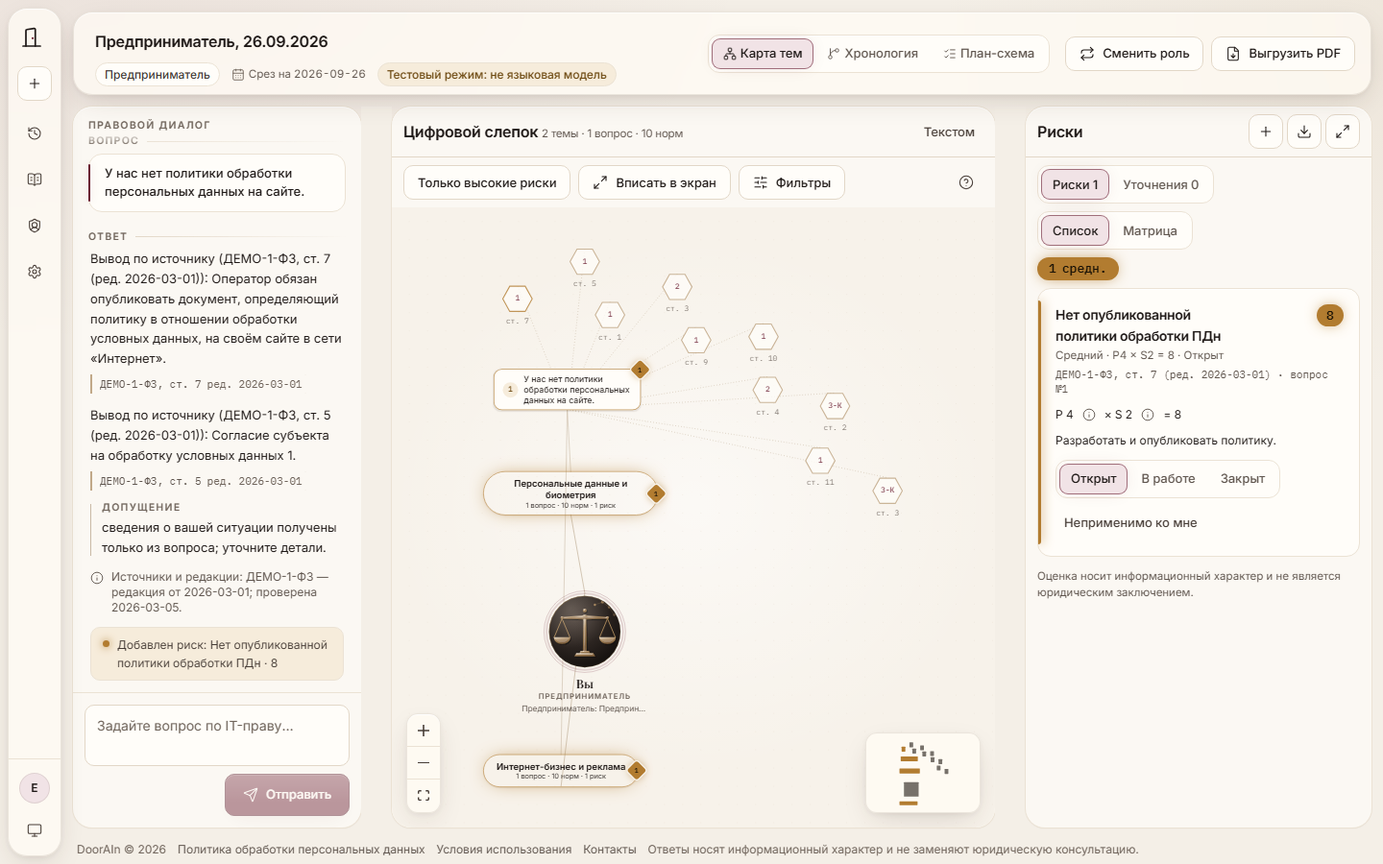
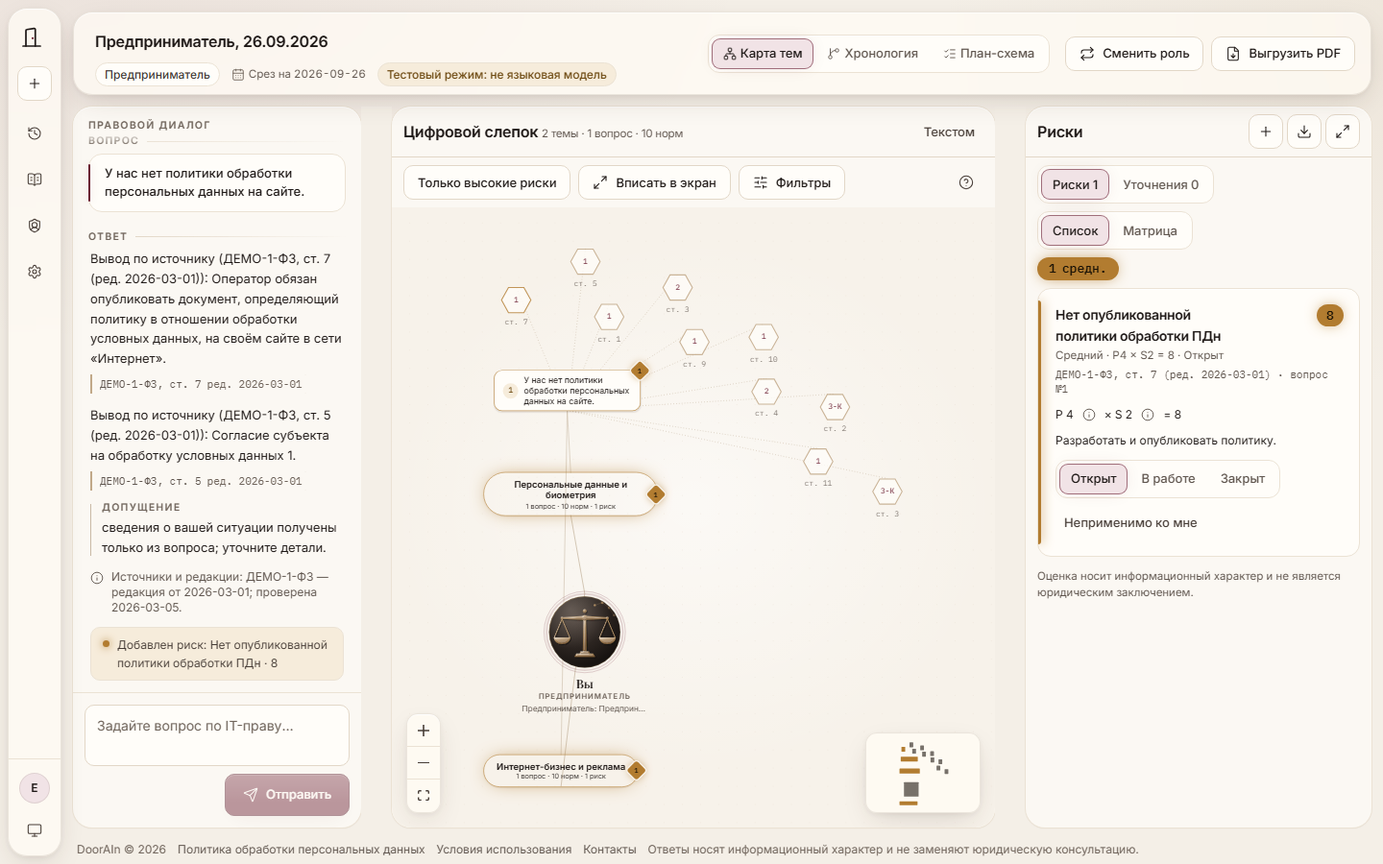
Карта: узлы не перекрываются, весы «Вы» качаются при перемещении
- separate: раздвижка по видимым прямоугольникам (замеренный размер, масштаб капсулы темы), на каждой пересборке
  раскладки и для сохранённых позиций; перетащенный узел остаётся на месте, соседи отходят
- новый или изменившийся замер узла пересобирает раскладку; раздвинутые позиции сохраняются
- Medallion: коромысло и подвесы — группы с поворотом по CSS-переменным --beam/--pan
- узел «Вы»: затухающий маятник чаш и пружина коромысла (swingStep) в requestAnimationFrame, без перерисовки React;
  при prefers-reduced-motion весы неподвижны
- тесты: unit (раздвижка с масштабом, затухание качания), e2e (нет пересечений после загрузки и перетаскиваний, качание)

diff --git a/frontend/src/features/workspace/GraphView.tsx b/frontend/src/features/workspace/GraphView.tsx
@@ -23,7 +23,7 @@ import { LEVEL_ORDER, LEVEL_RU, ROLE_RU } from '../../lib/risk'
 import { nodesForRisk, riskIdsForNode, useSelection } from '../../lib/selection'
 import { cssVar } from '../../lib/theme'
 import { download, NODE_TITLE, svgToPng, toSvg } from './graphExport'
-import { branchOf, countersText, dialogThread, lodFor, questionNumbers, radialLayout, short, topicCounters, visibleAt, type Positions } from './graphModel'
+import { BOX, branchOf, countersText, dialogThread, growth, lodFor, questionNumbers, radialLayout, separate, short, topicCounters, visibleAt, type Positions, type SizeOf } from './graphModel'
 import { nodeTypes, type PData } from './GraphNodes'
 import { ReasoningDrawer } from './ReasoningDrawer'
 
@@ -118,6 +118,7 @@ function Inner({ sessionId, graph }: { sessionId: string; graph: Graph }) {
   // Замеры узлов: React Flow сбрасывает размеры у каждого нового объекта узла без measured и прячет его (visibility: hidden)
   // до повторного замера — курсор «проваливается» на фон, приходит mouseleave, и карта мерцает при неподвижном курсоре.
   const sizes = useRef(new Map<string, { width: number; height: number }>())
+  const pinned = useRef(new Set<string>()) // последние перетащенные узлы: раздвижка их не сдвигает
   const hoverId = useRef<string | null>(null)
   const hoverOut = useRef<number | undefined>(undefined)
   const timer = useRef<number | undefined>(undefined)
@@ -156,7 +157,17 @@ function Inner({ sessionId, graph }: { sessionId: string; graph: Graph }) {
   }, [graph, filters, nums])
 
   const visible = useMemo(() => graph.nodes.filter((n) => !hidden.has(n.id)).sort((a, b) => KIND_ORDER[a.kind] - KIND_ORDER[b.kind] || (nums.get(a.id) ?? 0) - (nums.get(b.id) ?? 0)), [graph.nodes, hidden, nums])
-  const layout = useMemo(() => radialLayout(graph, visible, positions.current), [graph, visible, moved]) // eslint-disable-line react-hooks/exhaustive-deps -- позиции лежат в ref: moved пересчитывает раскладку после перетаскивания и «Разложить заново»
+  // Узлы не залезают друг на друга: после раскладки все видимые узлы раздвигаются по замеренным размерам (капсула темы —
+  // с учётом масштаба), включая сохранённые позиции; не двигается только то, что пользователь только что перетащил.
+  const layout = useMemo(() => {
+    const size: SizeOf = (n) => {
+      const m = sizes.current.get(n.id), k = n.kind === 'topic' ? growth(n.weight) : 1
+      return m ? { w: m.width, h: m.height, k } : { ...BOX[n.kind], k }
+    }
+    const out = radialLayout(graph, visible, positions.current, size)
+    separate(visible, out, pinned.current, size)
+    return out
+  }, [graph, visible, moved]) // eslint-disable-line react-hooks/exhaustive-deps -- позиции и размеры лежат в ref: moved пересчитывает раскладку после замера, перетаскивания и «Разложить заново»
 
   const persist = useCallback((f: GraphFilters) => {
     window.clearTimeout(timer.current)
@@ -164,9 +175,9 @@ function Inner({ sessionId, graph }: { sessionId: string; graph: Graph }) {
   }, [sessionId])
   const setF = (f: GraphFilters) => { setFilters(f); persist(f) }
 
-  // Новые узлы получают позицию один раз и сохраняются: следующий ответ не перетряхивает слепок.
+  // Новые узлы получают позицию один раз и сохраняются (следующий ответ не перетряхивает слепок); раздвинутые — тоже.
   useEffect(() => {
-    const fresh = Object.keys(layout).filter((id) => !positions.current[id])
+    const fresh = Object.entries(layout).filter(([id, p]) => positions.current[id]?.x !== p.x || positions.current[id]?.y !== p.y)
     if (!fresh.length) return
     positions.current = { ...positions.current, ...layout }
     persist(filters)
@@ -247,11 +258,17 @@ function Inner({ sessionId, graph }: { sessionId: string; graph: Graph }) {
 
   const onNodesChange = useCallback((changes: NodeChange<Node<PData>>[]) => {
     let drag = false
+    const dragged = new Set<string>()
     for (const c of changes) {
-      // первый замер узла тоже пересобирает узлы: мини-карта рисует только узлы с measured в пользовательском объекте
-      if (c.type === 'dimensions' && c.dimensions) { drag ||= !sizes.current.has(c.id); sizes.current.set(c.id, c.dimensions) }
-      if (c.type === 'position' && c.position) { positions.current = { ...positions.current, [c.id]: c.position }; drag = true }
+      // новый или изменившийся замер пересобирает узлы: мини-карта рисует только узлы с measured, раздвижка берёт реальный размер
+      if (c.type === 'dimensions' && c.dimensions) {
+        const was = sizes.current.get(c.id)
+        drag ||= !was || Math.abs(was.width - c.dimensions.width) > 1 || Math.abs(was.height - c.dimensions.height) > 1
+        sizes.current.set(c.id, c.dimensions)
+      }
+      if (c.type === 'position' && c.position) { positions.current = { ...positions.current, [c.id]: c.position }; dragged.add(c.id); drag = true }
     }
+    if (dragged.size) pinned.current = dragged
     if (drag) force((x) => x + 1)
   }, [])
   useEffect(() => () => window.clearTimeout(hoverOut.current), [])
@@ -290,7 +307,7 @@ function Inner({ sessionId, graph }: { sessionId: string; graph: Graph }) {
     if (png) download(`doorain-portrait-${stamp}.png`, png)
   }, [graph, visible, layout])
 
-  const relayout = () => { positions.current = {}; force((x) => x + 1); persist(filters) }
+  const relayout = () => { positions.current = {}; pinned.current = new Set(); force((x) => x + 1); persist(filters) }
   const topics = graph.nodes.filter((n) => n.kind === 'topic')
   const topicTitle = topics.find((t) => t.id === filters.topic)?.label
   const onlyHigh = filters.minLevel === 'high'

diff --git a/frontend/src/features/workspace/graphModel.ts b/frontend/src/features/workspace/graphModel.ts
@@ -90,7 +90,7 @@ export const BOX: Record<GraphNode['kind'], { w: number; h: number }> = {
 
 /** Радиальная раскладка: центр в середине, темы по окружности, вопросы — дугой снаружи своей темы, нормы — ещё дальше.
  *  Уже размещённые узлы (keep) не двигаются: новые узлы не перетряхивают граф. */
-export function radialLayout(graph: Graph, visible: GraphNode[], keep: Positions): Positions {
+export function radialLayout(graph: Graph, visible: GraphNode[], keep: Positions, size?: SizeOf): Positions {
   const ids = new Set(visible.map((n) => n.id))
   const topics = visible.filter((n) => n.kind === 'topic')
   const T = Math.max(1, topics.length)
@@ -147,13 +147,19 @@ export function radialLayout(graph: Graph, visible: GraphNode[], keep: Positions
     const b = BOX[n.kind]
     out[n.id] = { x: Math.round(p.x - b.w / 2), y: Math.round(p.y - b.h / 2) }
   }
-  separate(visible, out, new Set(Object.keys(keep)))
+  separate(visible, out, new Set(Object.keys(keep)), size)
   return out
 }
 
-/** Раздвигает пересекающиеся прямоугольники узлов; закреплённые (уже размещённые) узлы не двигаются.
+/** Размер узла для раздвижки: w × h — рамка узла (от неё считается центр), k — видимый масштаб содержимого (капсула темы). */
+export type SizeOf = (n: GraphNode) => { w: number; h: number; k?: number }
+const boxOf: SizeOf = (n) => BOX[n.kind]
+
+/** Раздвигает пересекающиеся узлы по их видимым прямоугольникам (центр + масштаб); закреплённые узлы не двигаются.
+ *  Сдвиг — по оси наименьшего перекрытия, поровну между двумя свободными узлами.
  *  ponytail: O(n²) за проход, до 60 проходов — достаточно для слепка в сотни узлов; при тысячах нужен пространственный индекс. */
-export function separate(nodes: GraphNode[], pos: Positions, fixed: Set<string>, gap = 10): void {
+export function separate(nodes: GraphNode[], pos: Positions, fixed: Set<string>, size: SizeOf = boxOf, gap = 12): void {
+  const dim = nodes.map((n) => { const s = size(n), k = s.k ?? 1; return { w: s.w, h: s.h, hw: (s.w * k) / 2, hh: (s.h * k) / 2 } })
   for (let iter = 0; iter < 60; iter++) {
     let moved = false
     for (let i = 0; i < nodes.length; i++) {
@@ -161,18 +167,19 @@ export function separate(nodes: GraphNode[], pos: Positions, fixed: Set<string>,
         const a = nodes[i]!, b = nodes[j]!
         const pa = pos[a.id], pb = pos[b.id]
         if (!pa || !pb || (fixed.has(a.id) && fixed.has(b.id))) continue
-        const A = BOX[a.kind], B = BOX[b.kind]
-        const dx = Math.min(pa.x + A.w, pb.x + B.w) - Math.max(pa.x, pb.x) + gap
-        const dy = Math.min(pa.y + A.h, pb.y + B.h) - Math.max(pa.y, pb.y) + gap
+        const A = dim[i]!, B = dim[j]!
+        const ax = pa.x + A.w / 2, ay = pa.y + A.h / 2, bx = pb.x + B.w / 2, by = pb.y + B.h / 2
+        const dx = A.hw + B.hw + gap - Math.abs(ax - bx)
+        const dy = A.hh + B.hh + gap - Math.abs(ay - by)
         if (dx <= 0 || dy <= 0) continue
         moved = true
         const horizontal = dx < dy
-        const sign = horizontal ? Math.sign(pa.x + A.w / 2 - (pb.x + B.w / 2)) || 1 : Math.sign(pa.y + A.h / 2 - (pb.y + B.h / 2)) || 1
-        const shift = (horizontal ? dx : dy) / (fixed.has(a.id) || fixed.has(b.id) ? 1 : 2)
+        const sign = horizontal ? Math.sign(ax - bx) || 1 : Math.sign(ay - by) || 1
+        const shift = Math.ceil((horizontal ? dx : dy) / (fixed.has(a.id) || fixed.has(b.id) ? 1 : 2))
         const move = (id: string, s: number) => {
           if (fixed.has(id)) return
           const p = pos[id]!
-          pos[id] = horizontal ? { x: Math.round(p.x + s * shift), y: p.y } : { x: p.x, y: Math.round(p.y + s * shift) }
+          pos[id] = horizontal ? { x: p.x + s * shift, y: p.y } : { x: p.x, y: p.y + s * shift }
         }
         move(a.id, sign)
         move(b.id, -sign)
@@ -180,6 +187,20 @@ export function separate(nodes: GraphNode[], pos: Positions, fixed: Set<string>,
     }
     if (!moved) return
   }
+}
+
+/** Качание весов «Вы»: чаши — затухающий маятник (угол pan), коромысло — затухающая пружина (угол beam), в градусах.
+ *  push(dx) — толчок от перемещения узла на dx: чаши отстают от движения, коромысло отвечает меньше и в другую сторону. */
+export interface Swing { pan: number; panV: number; beam: number; beamV: number }
+export const swingPush = (s: Swing, dx: number): void => { s.panV += dx * 3; s.beamV -= dx }
+export function swingStep(s: Swing, dt: number): boolean {
+  s.panV += (-81 * s.pan - 2.4 * s.panV) * dt
+  s.pan += s.panV * dt
+  if (Math.abs(s.pan) > 32) { s.pan = Math.sign(s.pan) * 32; s.panV = 0 } // упор: скорость гасится, а не копится у предела
+  s.beamV += (-49 * s.beam - 3 * s.beamV) * dt
+  s.beam += s.beamV * dt
+  if (Math.abs(s.beam) > 10) { s.beam = Math.sign(s.beam) * 10; s.beamV = 0 }
+  return Math.abs(s.pan) + Math.abs(s.panV) + Math.abs(s.beam) + Math.abs(s.beamV) > 0.05 // ещё качается
 }
 
 /** Короткая подпись нормы для шестиугольника: номер акта сверху, статья снизу («152» / «ст. 22»). */

diff --git a/frontend/src/components/Medallion.tsx b/frontend/src/components/Medallion.tsx
@@ -9,6 +9,10 @@ const LINKS: [number, number][] = [[0, 1], [1, 2], [2, 3], [1, 4], [4, 2], [0, 5
 
 /** Правый/левый подвес с чашей: две нити от конца коромысла и чаша-полусфера. */
 const pan = (x: number) => `M ${x - 20} 113 H ${x + 20} Q ${x + 18} 128 ${x} 129 Q ${x - 18} 128 ${x - 20} 113 Z`
+/** Качание (CSS-переменные --beam и --pan, градусы; задаёт узел «Вы» на карте, по умолчанию 0): коромысло вращается вокруг оси,
+ *  подвес — вокруг конца коромысла; поворот подвеса компенсирует наклон коромысла, чтобы чаша висела по своему углу --pan. */
+const BEAM = { transform: 'rotate(var(--beam, 0deg))', transformOrigin: '100px 66px' }
+const HANG = (x: number) => ({ transform: 'rotate(calc(var(--pan, 0deg) - var(--beam, 0deg)))', transformOrigin: `${x}px 67px` })
 
 /** Медальон правового положения: бронзовые весы рельефом на тёмном камне, бордовый ореол и цифровой слой.
  *  Символ права, а не портрет и не государственная эмблема. Детализация зависит от размера: в 96–120 px — только
@@ -81,28 +85,32 @@ export function Medallion({ size = 96, halo = true, className = '', title }: { s
           {DOTS.filter((d) => fine || !d[3]).map(([x, y, r]) => <circle key={`${x}-${y}`} cx={x} cy={y} r={fine ? r : r * 1.7} opacity={Math.max(0.35, 1.1 - (x - 110) / 90)} />)}
         </g>
 
-        {/* Весы: навершие, коромысло с осью, стойка, ступенчатое основание, две нити и чаша с каждой стороны */}
+        {/* Весы: навершие, стойка, ступенчатое основание; коромысло с двумя подвесами (нити + чаша) качается; ось — поверх */}
         <g filter={u('relief')} fill={u('metal')}>
           <circle cx="100" cy="50" r="4.5" />
-          <path d="M 44 65 L 100 61.5 L 156 65 L 156 69 L 100 71 L 44 69 Z" />
-          <circle cx="46" cy="67" r="3.4" />
-          <circle cx="154" cy="67" r="3.4" />
-          <circle cx="100" cy="66" r="6.5" />
           <path d="M 97 70 H 103 L 104.5 146 H 95.5 Z" />
           <path d="M 90 146 H 110 L 112.5 151 H 87.5 Z" />
           <path d="M 80 151 H 120 L 125 159 H 75 Z" />
-          <path d={pan(46)} />
-          <path d={pan(154)} />
-        </g>
-        <g fill="none" style={{ stroke: 'var(--gold)' }} strokeWidth={thread} strokeLinecap="round">
-          <path d="M 46 69 L 27.5 113 M 46 69 L 64.5 113" />
-          <path d="M 154 69 L 135.5 113 M 154 69 L 172.5 113" />
+          <g style={BEAM}>
+            <path d="M 44 65 L 100 61.5 L 156 65 L 156 69 L 100 71 L 44 69 Z" />
+            <circle cx="46" cy="67" r="3.4" />
+            <circle cx="154" cy="67" r="3.4" />
+            {[46, 154].map((x) => (
+              <g key={x} style={HANG(x)}>
+                <path d={pan(x)} />
+                <path d={`M ${x} 69 L ${x - 18.5} 113 M ${x} 69 L ${x + 18.5} 113`} fill="none" style={{ stroke: 'var(--gold)' }} strokeWidth={thread} strokeLinecap="round" />
+              </g>
+            ))}
+          </g>
+          <circle cx="100" cy="66" r="6.5" />
         </g>
         {fine && (
           <g fill="none" style={{ stroke: 'var(--marble-lo)' }} strokeOpacity="0.55" strokeWidth="0.8" strokeLinecap="round">
             {/* гравировка: осевая линия коромысла, кромки чаш, ось и ступени основания */}
-            <path d="M 50 66.8 L 100 64.5 L 150 66.8" />
-            <path d="M 27 113 H 65 M 135 113 H 173" />
+            <g style={BEAM}>
+              <path d="M 50 66.8 L 100 64.5 L 150 66.8" />
+              {[46, 154].map((x) => <path key={x} style={HANG(x)} d={`M ${x - 19} 113 H ${x + 19}`} />)}
+            </g>
             <circle cx="100" cy="66" r="2.6" />
             <path d="M 92 151 H 108 M 80 159 H 120" />
           </g>

diff --git a/tests/e2e/doorain.spec.ts b/tests/e2e/doorain.spec.ts
@@ -588,6 +588,54 @@ test('карта: неподвижный курсор над узлом — од
   expect(await page.evaluate(() => (window as unknown as { __hov: string[] }).__hov)).not.toContain('hidden')
 })
 
+test('карта: узлы не залезают друг на друга (и после перетаскивания); весы «Вы» качаются при перемещении и успокаиваются', async ({ page }) => {
+  await page.setViewportSize({ width: 1440, height: 900 })
+  await login(page)
+  await startSession(page)
+  const qs = [NO_POLICY, 'Мы собираем e-mail и телефоны покупателей через форму заказа.', 'Размещаем рекламу у блогеров, нужна ли маркировка?']
+  for (const [i, q] of qs.entries()) {
+    await ask(page, q)
+    await expect(page.locator('.react-flow__node-question')).toHaveCount(i + 1)  // ответ получен, узел на карте
+    await expect(page.getByLabel('Ваш вопрос')).toBeEnabled()
+  }
+  await page.waitForTimeout(800)
+  // видимые прямоугольники узлов (с масштабом капсулы темы и подписями) попарно не пересекаются
+  const overlaps = () => page.evaluate(() => {
+    const rects = [...document.querySelectorAll('.react-flow__node')].filter((n) => getComputedStyle(n).visibility !== 'hidden').map((n) => {
+      const parts = [...n.querySelectorAll('.gn > :not(.react-flow__handle)')].map((c) => c.getBoundingClientRect()).filter((r) => r.width && r.height)
+      return { id: `${/node-(\w+)/.exec(n.className)?.[1]}:${n.textContent?.slice(0, 16)}@${Math.round(parts[0]?.left ?? 0)},${Math.round(parts[0]?.top ?? 0)}`, l: Math.min(...parts.map((r) => r.left)), t: Math.min(...parts.map((r) => r.top)), r: Math.max(...parts.map((r) => r.right)), b: Math.max(...parts.map((r) => r.bottom)) }
+    })
+    const bad: string[] = []
+    for (let i = 0; i < rects.length; i++) for (let j = i + 1; j < rects.length; j++) {
+      const a = rects[i]!, b = rects[j]!
+      if (a.l < b.r - 1 && b.l < a.r - 1 && a.t < b.b - 1 && b.t < a.b - 1) bad.push(`${a.id} × ${b.id}`)
+    }
+    return bad
+  })
+  expect(await overlaps()).toEqual([])
+
+  const medal = page.locator('.react-flow__node-center .gn-center')
+  const pan = () => medal.evaluate((e) => Math.abs(parseFloat(e.style.getPropertyValue('--pan') || '0')))
+  const c = (await medal.boundingBox())!
+  await page.mouse.move(c.x + c.width / 2, c.y + c.height / 2)
+  await page.mouse.down()
+  await page.mouse.move(c.x + c.width / 2 + 160, c.y + c.height / 2 - 30, { steps: 12 })
+  expect(await pan()).toBeGreaterThan(3)  // чаши отстают от движения
+  await page.mouse.up()
+  await expect.poll(pan, { timeout: 8000 }).toBe(0)  // колебания затухают
+  expect(await overlaps()).toEqual([])
+
+  // вопрос, брошенный поверх темы, остаётся где брошен, а соседи раздвигаются
+  const q = (await page.locator('.react-flow__node-question').first().boundingBox())!
+  const t = (await page.locator('.react-flow__node-topic').first().boundingBox())!
+  await page.mouse.move(q.x + q.width / 2, q.y + q.height / 2)
+  await page.mouse.down()
+  await page.mouse.move(t.x + t.width / 2, t.y + t.height / 2, { steps: 15 })
+  await page.mouse.up()
+  await page.waitForTimeout(400)
+  expect(await overlaps()).toEqual([])
+})
+
 test('нижняя кнопка профиля: «Профиль» целиком, длинное имя — второй строкой; в свёрнутой панели — имя в aria-label и видимая подсказка', async ({ page }) => {
   await page.setViewportSize({ width: 1440, height: 900 })
   await login(page)

diff --git a/frontend/src/features/workspace/GraphNodes.tsx b/frontend/src/features/workspace/GraphNodes.tsx
@@ -1,9 +1,9 @@
 import { Handle, Position, type Node, type NodeProps } from '@xyflow/react'
-import type { CSSProperties } from 'react'
+import { useEffect, useRef, type CSSProperties } from 'react'
 import { Medallion } from '../../components/Medallion'
 import type { GraphNode, Level } from '../../lib/api'
 import { levelVar } from '../../lib/risk'
-import { growth, normParts, short } from './graphModel'
+import { growth, normParts, short, swingPush, swingStep, type Swing } from './graphModel'
 
 export interface PData extends Record<string, unknown> {
   kind: GraphNode['kind']
@@ -51,11 +51,39 @@ function Diamond({ data, style }: { data: PData; style?: CSSProperties }) {
   return <span className="gn-diamond" style={style} aria-hidden><span>{data.count}</span></span>
 }
 
-/** «Вы» — якорь портрета: медальон правовой личности (мрамор, стеклянный ореол), под ним роль и тема сессии. */
-function CenterNode({ data }: NodeProps<Node<PData>>) {
+/** Весы качаются, когда узел двигают: каждый сдвиг по x толкает маятник чаш, затухание считается в requestAnimationFrame,
+ *  углы пишутся в CSS-переменные --pan/--beam элемента (без перерисовки React). При prefers-reduced-motion весы неподвижны. */
+function useSwing(x: number) {
+  const ref = useRef<HTMLDivElement>(null)
+  const st = useRef({ x, raf: 0, t: 0, s: { pan: 0, panV: 0, beam: 0, beamV: 0 } as Swing })
+  useEffect(() => {
+    const m = st.current
+    const dx = x - m.x
+    m.x = x
+    if (!dx || matchMedia('(prefers-reduced-motion: reduce)').matches) return
+    swingPush(m.s, dx)
+    if (m.raf) return
+    m.t = performance.now()
+    const tick = (now: number) => {
+      const going = swingStep(m.s, Math.min(0.033, (now - m.t) / 1000))
+      m.t = now
+      if (!going) m.s = { pan: 0, panV: 0, beam: 0, beamV: 0 }
+      ref.current?.style.setProperty('--pan', `${m.s.pan.toFixed(2)}deg`)
+      ref.current?.style.setProperty('--beam', `${m.s.beam.toFixed(2)}deg`)
+      m.raf = going ? requestAnimationFrame(tick) : 0
+    }
+    m.raf = requestAnimationFrame(tick)
+  }, [x])
+  useEffect(() => () => cancelAnimationFrame(st.current.raf), [])
+  return ref
+}
+
+/** «Вы» — якорь портрета: медальон с весами (при перетаскивании чаши качаются), под ним роль и тема сессии. */
+function CenterNode({ data, positionAbsoluteX }: NodeProps<Node<PData>>) {
+  const swing = useSwing(positionAbsoluteX)
   return (
     <Shell data={data}>
-      <div className="gn-center"><Medallion size={120} /></div>
+      <div className="gn-center" ref={swing}><Medallion size={120} /></div>
       <span className="serif mt-1.5 text-[17px] font-semibold leading-none">Вы</span>
       <span className="overline mt-1">{data.role}</span>
       <span className="caption mt-0.5 max-w-[180px] truncate">{short(data.label, 40)}</span>

diff --git a/frontend/src/features/workspace/graphModel.test.ts b/frontend/src/features/workspace/graphModel.test.ts
@@ -1,6 +1,6 @@
 import { describe, expect, it } from 'vitest'
 import type { Graph } from '../../lib/api'
-import { BOX, branchOf, countersText, dialogThread, lodFor, normParts, questionNumbers, radialLayout, separate, topicCounters, visibleAt } from './graphModel'
+import { BOX, branchOf, countersText, dialogThread, lodFor, normParts, questionNumbers, radialLayout, separate, swingPush, swingStep, topicCounters, visibleAt } from './graphModel'
 
 const n = (id: string, kind: Graph['nodes'][number]['kind'], extra: Partial<Graph['nodes'][number]> = {}) =>
   ({ id, kind, label: id, weight: 1, risk_level: null, resolved_level: null, risk_count: 0, data: {}, ...extra }) as Graph['nodes'][number]
@@ -68,6 +68,31 @@ describe('модель слепка', () => {
       const px = pos[x.id]!, py = pos[y.id]!
       expect(px.x + W <= py.x || py.x + W <= px.x || px.y + H <= py.y || py.y + H <= px.y).toBe(true)
     }
+  })
+
+  it('раздвижка по видимым размерам: масштаб капсулы темы и сохранённые позиции тоже раздвигаются', () => {
+    const ts = [n('a', 'topic'), n('b', 'topic'), n('c', 'question')]
+    const pos = { a: { x: 0, y: 0 }, b: { x: 10, y: 40 }, c: { x: 20, y: 30 } }  // все «сохранены» внахлёст
+    const size = (x: Graph['nodes'][number]) => (x.kind === 'topic' ? { w: 200, h: 50, k: 1.4 } : { w: 180, h: 56 })
+    separate(ts, pos, new Set(['a']), size)
+    expect(pos.a).toEqual({ x: 0, y: 0 })  // перетащенный пользователем остаётся на месте
+    const rect = (id: 'a' | 'b' | 'c'): [number, number, number, number] => { const s = size(ts.find((x) => x.id === id)!), k = s.k ?? 1; const cx = pos[id].x + s.w / 2, cy = pos[id].y + s.h / 2; return [cx - (s.w * k) / 2, cy - (s.h * k) / 2, cx + (s.w * k) / 2, cy + (s.h * k) / 2] }
+    for (const [x, y] of [['a', 'b'], ['a', 'c'], ['b', 'c']] as const) {
+      const [a1, b1, c1, d1] = rect(x), [a2, b2, c2, d2] = rect(y)
+      expect(c1 <= a2 || c2 <= a1 || d1 <= b2 || d2 <= b1, `${x} и ${y} пересекаются`).toBe(true)
+    }
+  })
+
+  it('весы: сдвиг вправо отклоняет чаши, колебания затухают и весы успокаиваются', () => {
+    const s = { pan: 0, panV: 0, beam: 0, beamV: 0 }
+    swingPush(s, 30)
+    swingStep(s, 0.016)
+    expect(s.pan).toBeGreaterThan(0)
+    let frames = 0, crossed = false
+    while (swingStep(s, 0.016) && frames < 2000) { frames++; crossed ||= s.pan < 0 }
+    expect(crossed).toBe(true)  // качается через середину, а не просто возвращается
+    expect(frames * 0.016).toBeLessThan(8)
+    expect(Math.abs(s.pan)).toBeLessThan(0.05)
   })
 
   it('подпись нормы для шестиугольника', () => {

diff --git a/docs/design-system.md b/docs/design-system.md
@@ -51,7 +51,7 @@
 
 Кнопки — `Button` (`components/ui.tsx`) и классы `.btn` (вторичная), `.btn-primary`, `.btn-tertiary`, `.btn-icon`, `.btn-danger`, `.btn-danger-solid` (только в подтверждении), `.btn-lg` (44 px); состояния — `:hover`/`.is-hover`, `:active`/`.is-active`, фокус (`--focus-ring`), `:disabled` (45 %), `aria-busy` (индикатор слева, ширина не меняется); зона нажатия ≥ 44 × 44 через `::after`. На экране одна первичная кнопка. Полная витрина — `/styleguide`. `HelpPopover` — кнопка «?» с поповером по требованию (условные обозначения). `.seg`/`.seg-item` (стеклянная дорожка; выбранный сегмент — полупрозрачный бордовый со свечением, `aria-pressed`/`aria-selected`), `.glass`/`.glass-strong` (материал интерфейса), `.zone` (твёрдая поверхность без рамки — кромка и мягкая тень; всплывающая `.zone` в `<details>` или с `absolute` — стекло), `.nav-item` (пункт навигации, выбранный — `aria-current`: бордовая линия и свечение), `.role-card` / `.role-coin` (карточка роли и её символ), `.cite` (источник под выводом), `.sem` (смысловой блок ответа с меткой), `.msg-label` (метка «Вопрос»/«Ответ»), `.mx-card` (стеклянная карточка матрицы), `.portrait-light` (свет за медальоном), `.card` (отступ 16), `.card-risk` (полоса уровня слева через `--level`), `.badge-level`, `.chip`, `.chip-norm` (реквизит на золотой подложке), `.bubble-user` (вопрос — тонкая бордовая линия слева, без заливки) / `.bubble-agent` (ответ — редакционный текст без подложки), `.inline-note`, `.tooltip-card` (стекло), диалог `Dialog` — стекло над размытым фоном (варианты `drawer` 440 px и `full`). Медальон — `components/Medallion.tsx`, знак-дверь — `components/DoorMark.tsx`.
 
-Узлы графа (`.gn-*`, `features/workspace/GraphNodes.tsx`): центр — узел «Вы»: медальон с весами (камень, бронза, бордовый ореол) с подписью «Вы», ролью и темой сессии; тема — полупрозрачная капсула с тонкой обводкой уровня и мягким свечением, со счётчиками «вопросы · нормы · риски»; вопрос — прямоугольник с номером; норма — шестиугольник с бронзовой обводкой; риск — ромб-счётчик. Сцена `.map-stage` — световое пятно в центре; связи — 0.8–1.2 px. Связи: `asked_next` (золотая нить диалога, вычисляется), `refines` (пунктир), `grounded_in`, `raises`, `belongs_to`. Уровень детализации по зуму включается при > 20 видимых узлах.
+Узлы графа (`.gn-*`, `features/workspace/GraphNodes.tsx`): центр — узел «Вы»: медальон с весами (камень, бронза, бордовый ореол) с подписью «Вы», ролью и темой сессии; тема — полупрозрачная капсула с тонкой обводкой уровня и мягким свечением, со счётчиками «вопросы · нормы · риски»; вопрос — прямоугольник с номером; норма — шестиугольник с бронзовой обводкой; риск — ромб-счётчик. Сцена `.map-stage` — световое пятно в центре; связи — 0.8–1.2 px. Узлы не перекрываются: после раскладки все видимые узлы раздвигаются по замеренным размерам (капсула темы — с учётом масштаба `growth`), включая сохранённые позиции; перетащенный узел остаётся где брошен, соседи отходят (`separate` в `graphModel.ts`). Весы «Вы» качаются при перемещении узла: чаши — затухающий маятник, коромысло — пружина (`swingStep`), углы — CSS-переменные `--pan`/`--beam` на `.gn-center`; при `prefers-reduced-motion` весы неподвижны. Связи: `asked_next` (золотая нить диалога, вычисляется), `refines` (пунктир), `grounded_in`, `raises`, `belongs_to`. Уровень детализации по зуму включается при > 20 видимых узлах.
 
 ## Экраны
 

diff --git a/CLAUDE.md b/CLAUDE.md
@@ -58,6 +58,7 @@ python evals/run_eval.py --user owner --split holdout   # DOORAIN_EVAL_PASSWORD 
 * Пороги уровней и лимит рисков — `backend/app/config/risk.yaml` (уровни в БД пересчитываются при старте API); цвета PDF — `backend/app/config/print.yaml`, тест сверяет их с `tokens.css`. Уровень во frontend — только `data-level`, без инлайновых цветов.
 * В PDF не должно быть реплик диалога: вопросы подписываются номерами (`test_export_pdf_content_snapshot_and_auth`).
 * Дата «сегодня» во фронтенде — `todayISO()` (`src/lib/date.ts`): `toISOString()` даёт UTC и до 03:00 по Москве подставляет вчерашний срез.
+* Раздвижка узлов карты (`separate`) идёт по размерам из `onNodesChange` (`sizes`) на каждой пересборке раскладки; новый или изменившийся замер вызывает пересборку (иначе мини-карта пустая, а раздвижка считает по оценочному `BOX`). Качание весов — CSS-переменные, не состояние React: перерисовка узлов на каждом кадре вернула бы мерцание.
 * Панель портрета на узкой раскладке скрыта `display: none`, React Flow меряет её нулём: карта вписывается заново по `ResizeObserver` (`GraphView`), проверка — в e2e «адаптивность…».
 
 Подробности — `docs/` (architecture, decisions, security, risk-methodology, knowledge-base, deployment, internet-access, backup-restore, evaluation, design-system, progress).
